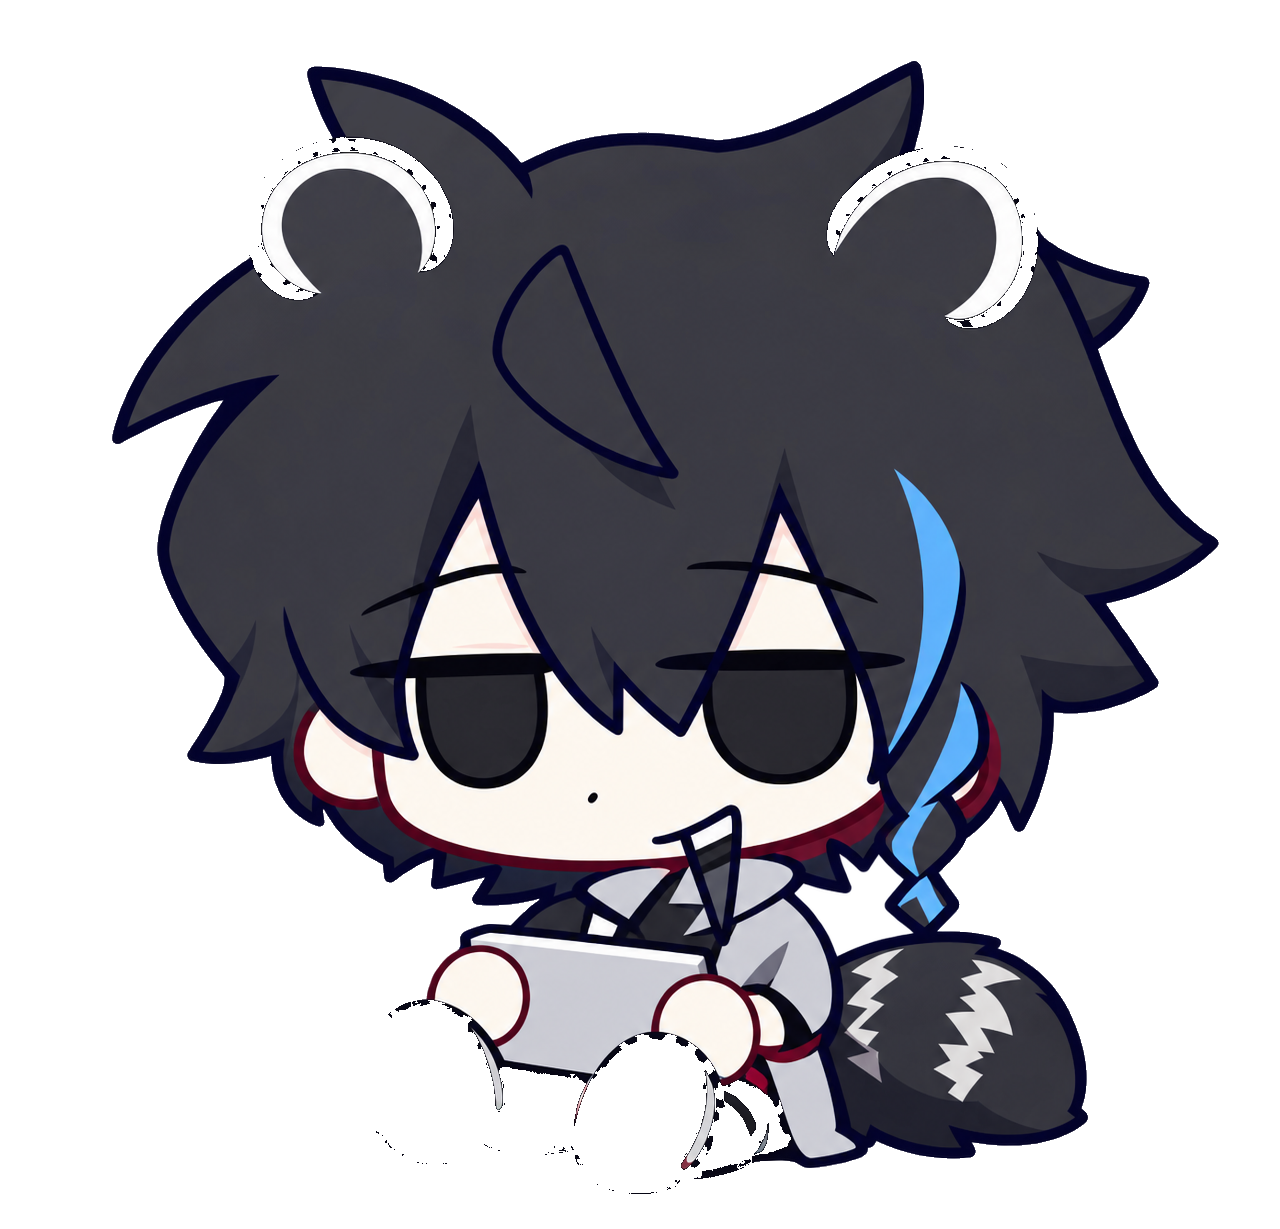
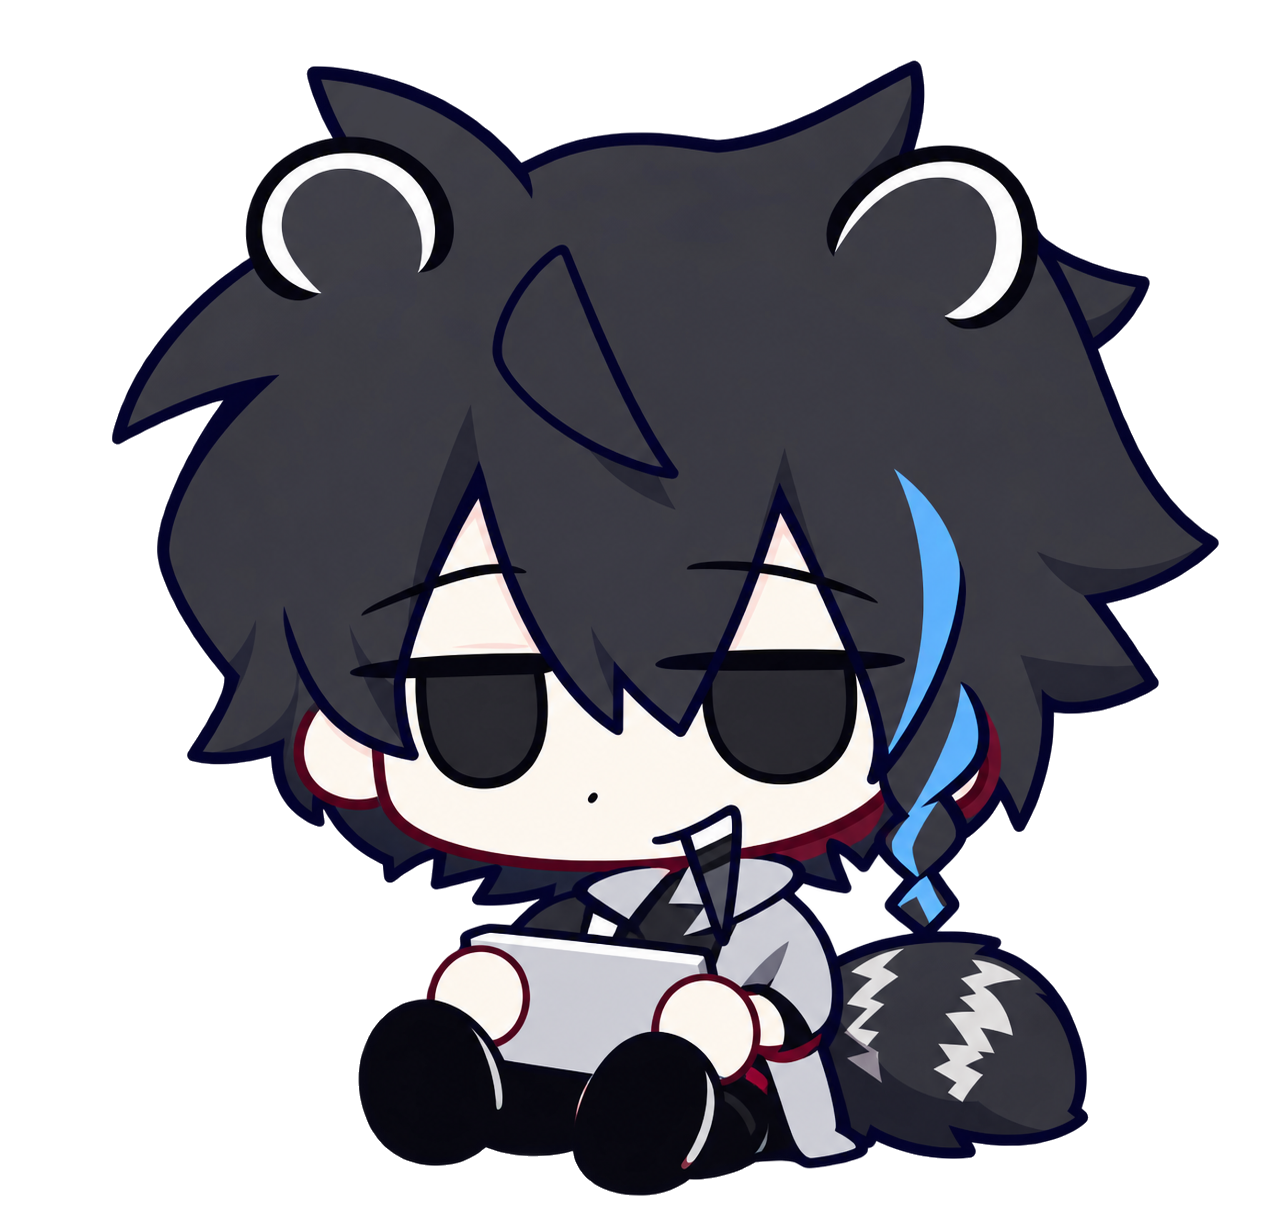
Keep the character's dark shoes when punching the background.
The old flood fill treated near-black pixels as empty canvas, so the legs vanished on the transparent desktop.

diff --git a/MacPet/scripts/key_background.swift b/MacPet/scripts/key_background.swift
@@ -35,11 +35,14 @@ guard let context = CGContext(
 
 context.draw(cgImage, in: CGRect(x: 0, y: 0, width: width, height: height))
 
-func isBackground(_ offset: Int) -> Bool {
-    let r = pixels[offset]
-    let g = pixels[offset + 1]
-    let b = pixels[offset + 2]
-    return r < 18 && g < 18 && b < 18
+func isEmptyCanvas(_ offset: Int) -> Bool {
+    let r = Int(pixels[offset])
+    let g = Int(pixels[offset + 1])
+    let b = Int(pixels[offset + 2])
+    let a = Int(pixels[offset + 3])
+    if a < 16 { return true }
+    // Dark shoes, hair, and outlines stay. Only punch the empty canvas.
+    return a < 40 && r < 5 && g < 5 && b < 5 && (r + g + b) < 8
 }
 
 var visited = [Bool](repeating: false, count: width * height)
@@ -51,7 +54,7 @@ func enqueue(_ x: Int, _ y: Int) {
     if visited[index] { return }
     visited[index] = true
     let offset = index * bytesPerPixel
-    if isBackground(offset) {
+    if isEmptyCanvas(offset) {
         queue.append(index)
     }
 }
